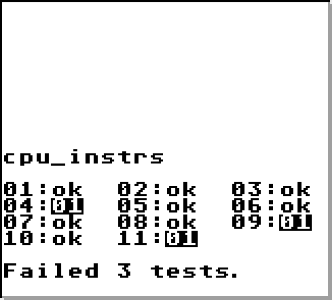
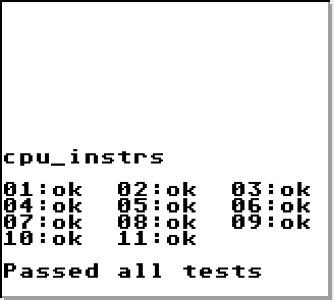
100% instruction accuracy reached.

diff --git a/SwiftEmu/GameBoyCPUExtInstructions.swift b/SwiftEmu/GameBoyCPUExtInstructions.swift
@@ -291,7 +291,7 @@ func RLC_r(cpu: GameBoyCPU, inout reg: UInt8, clock: UInt8 = 2) {
     let carry = (reg & 0x80) >> 7
     reg = (reg << 1) + carry
     cpu.registers.F = 0
-    if(reg == 0) { cpu.registers.F |= GameBoyRegisters.F_ZERO }
+    if(reg == 0 && clock == 2) { cpu.registers.F |= GameBoyRegisters.F_ZERO }
     if(carry > 0) { cpu.registers.F |= GameBoyRegisters.F_CARRY }
     cpu.updateClock(clock)
     cpu.registers.PC+=2
@@ -314,7 +314,7 @@ func RL_r(cpu: GameBoyCPU, inout reg: UInt8, clock: UInt8 = 2) {
     reg = (reg << 1)
     if cpu.registers.F & GameBoyRegisters.F_CARRY > 0 { reg += 0x01 }
     cpu.registers.F = 0
-    if(reg == 0) { cpu.registers.F |= GameBoyRegisters.F_ZERO }
+    if(reg == 0 && clock == 2) { cpu.registers.F |= GameBoyRegisters.F_ZERO }
     if(carry > 0) { cpu.registers.F |= GameBoyRegisters.F_CARRY }
     cpu.updateClock(clock)
     cpu.registers.PC+=2
@@ -337,7 +337,7 @@ func RRC_r(cpu: GameBoyCPU, inout reg: UInt8, clock: UInt8 = 2) {
     let carry = (reg & 0x01) << 7
     reg = (reg >> 1) + carry
     cpu.registers.F = 0
-    if(reg == 0) { cpu.registers.F |= GameBoyRegisters.F_ZERO }
+    if(reg == 0 && clock == 2) { cpu.registers.F |= GameBoyRegisters.F_ZERO }
     if(carry > 0) { cpu.registers.F |= GameBoyRegisters.F_CARRY }
     cpu.updateClock(clock)
     cpu.registers.PC+=2
@@ -360,7 +360,7 @@ func RR_r(cpu: GameBoyCPU, inout reg: UInt8, clock: UInt8 = 2) {
     reg = (reg >> 1)
     if cpu.registers.F & GameBoyRegisters.F_CARRY > 0 { reg += 0x80 }
     cpu.registers.F = 0
-    if(reg == 0) { cpu.registers.F |= GameBoyRegisters.F_ZERO }
+    if(reg == 0 && clock == 2) { cpu.registers.F |= GameBoyRegisters.F_ZERO }
     if(carry > 0) { cpu.registers.F |= GameBoyRegisters.F_CARRY }
     cpu.updateClock(clock)
     cpu.registers.PC+=2

diff --git a/SwiftEmu/GameBoyDevice.swift b/SwiftEmu/GameBoyDevice.swift
@@ -33,21 +33,22 @@ class GameBoyDevice {
         self.bp = 0xFFFF
         
         loadBios()
-        //loadRom("tetris")
+        loadRom("tetris")
         //loadRom("SuperMarioLand")
         //loadRom("cpu_instrs")
+        //loadRom("mem_timing")
         //loadRom("instr_timing")
         //loadRom("01-special") //passed
         //loadRom("02-interrupts") //passed
         //loadRom("03-op sp,hl") //passed
-        loadRom("04-op r,imm")
+        //loadRom("04-op r,imm") //passed
         //loadRom("05-op rp")   //passed
         //loadRom("06-ld r,r")  //passed
         //loadRom("07-jr,jp,call,ret,rst")    //passed
         //loadRom("08-misc instrs") //passed
         //loadRom("09-op r,r")
         //loadRom("10-bit ops")   //passed
-        //loadRom("11-op a,(hl)")
+        //loadRom("11-op a,(hl)")  //passed
     }
     
     func loadRom(name: String) {

diff --git a/SwiftEmu/GameBoyCPUInstructions.swift b/SwiftEmu/GameBoyCPUInstructions.swift
@@ -332,9 +332,9 @@ func SCF(cpu: GameBoyCPU) {
     cpu.registers.PC++
     cpu.updateClock(1)
 }
-// clear carry flag
+// cycle carry flag
 func CCF(cpu: GameBoyCPU) {
-    cpu.registers.F = GameBoyRegisters.F_ZERO | ((~cpu.registers.F) & GameBoyRegisters.F_CARRY)
+    cpu.registers.F = (cpu.registers.F & GameBoyRegisters.F_ZERO) | ((~cpu.registers.F) & GameBoyRegisters.F_CARRY)
     cpu.registers.PC++
     cpu.updateClock(1)
 }

diff --git a/README.md b/README.md
@@ -14,6 +14,7 @@ It still is not ready, as there are some bugs here and there, but it certainly i
 - Bootstrap
 - Fast Bootstrap (no bios file required)
 - 99% of CPU instructions
+- 100% accuracy of CPU instructions (according to Blargg test roms)
 - Most of the PPU features
 - Interrupts
 - Tetris, Super Mario Land (glitchy)
